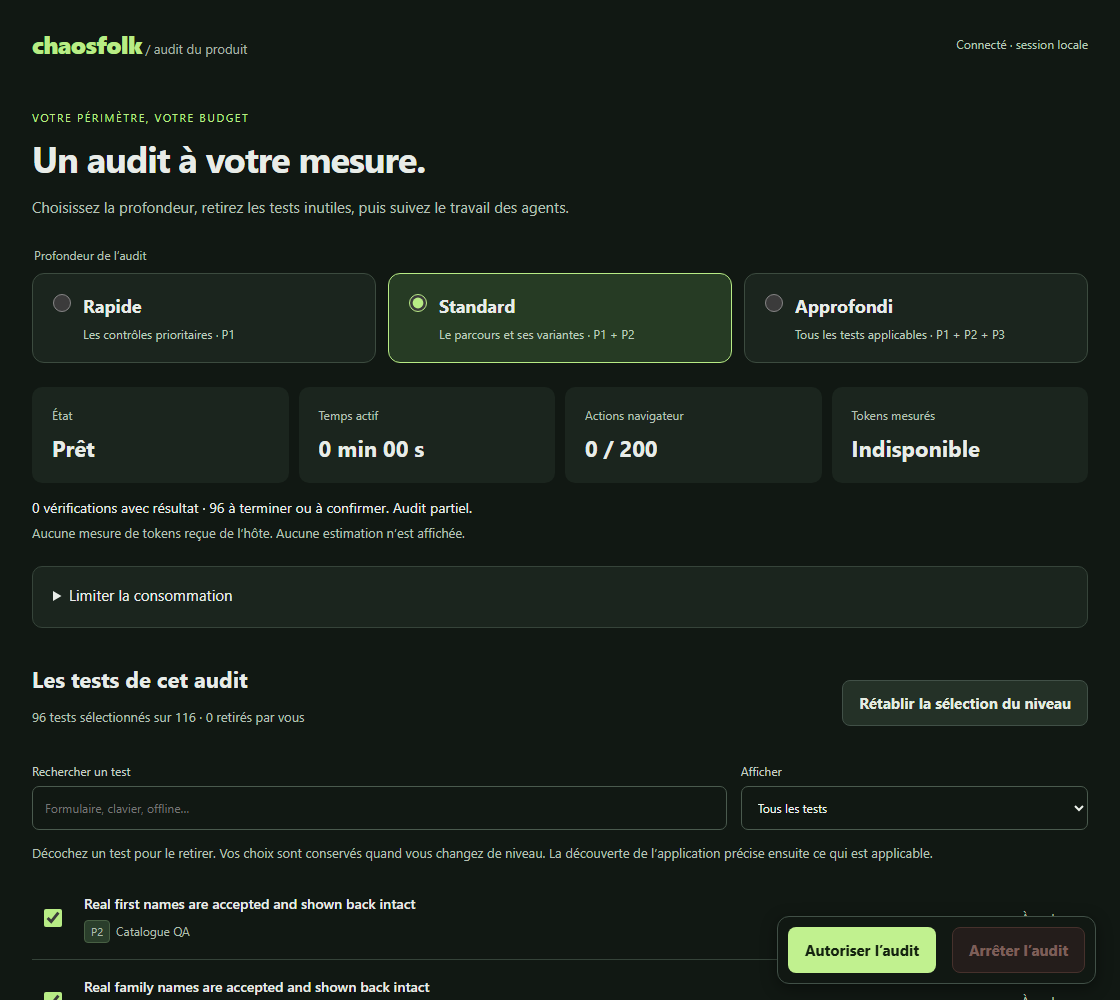
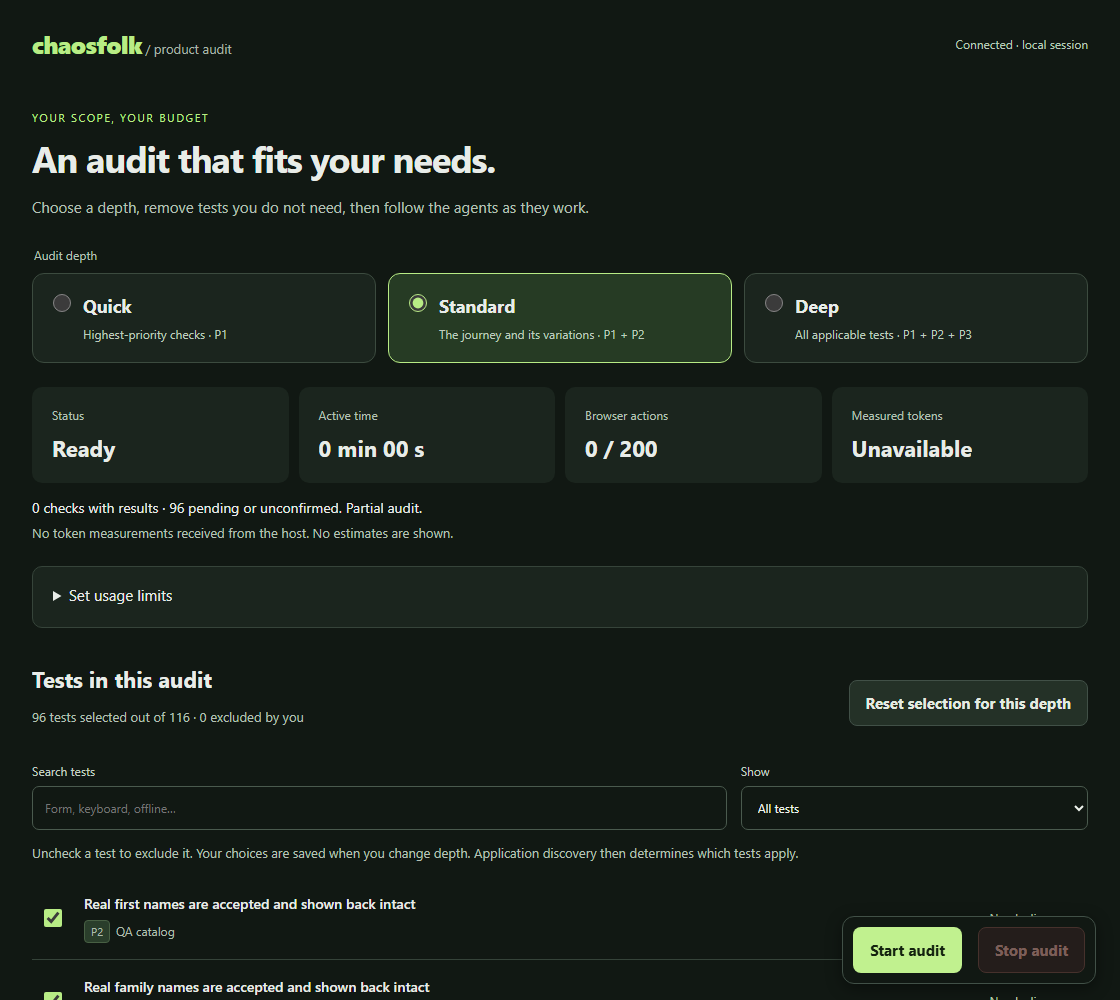
Use English audit demo and require bilingual release notes (#22)

diff --git a/scripts/record_audit_scan.py b/scripts/record_audit_scan.py
@@ -2,6 +2,7 @@
 
 Run from the repository root: python scripts/record_audit_scan.py
 The temporary audit never starts. Every recorded selection is verified in SQLite.
+English labels are applied to the recording's HTML, JS and API responses only.
 """
 import json
 from pathlib import Path
@@ -14,6 +15,26 @@ from playwright.sync_api import expect, sync_playwright
 
 from chaosfolk.audit_dashboard import make_server
 from chaosfolk.audit_session import Session
+
+
+def english_dashboard(route):
+    """Translate recording labels while keeping the real session and controls."""
+    response = route.fetch()
+    source = response.text()
+    translations = json.loads(Path(__file__).with_name("audit_scan_en.json").read_text(encoding="utf-8"))
+    if "/api/" in route.request.url:
+        if response.status == 204:
+            route.fulfill(response=response)
+            return
+        value = json.loads(source)
+        for entry in value.get("entries", []):
+            if "category" in entry:
+                entry["category"] = translations.get(entry["category"], entry["category"])
+        route.fulfill(response=response, json=value)
+        return
+    for french, english in sorted(translations.items(), key=lambda item: len(item[0]), reverse=True):
+        source = source.replace(french, english)
+    route.fulfill(response=response, body=source)
 
 
 def main():
@@ -37,18 +58,25 @@ def main():
                 page = browser.new_page(viewport={"width":1120,"height":1000}, device_scale_factor=1)
                 errors = []
                 page.on("pageerror", lambda error: errors.append(str(error)))
+                page.route("**/", english_dashboard)
+                page.route("**/audit-live.js", english_dashboard)
+                page.route("**/api/**", english_dashboard)
                 page.goto(f"http://127.0.0.1:{server.server_port}/#{server.audit_token}")
-                expect(page.locator("#connection")).to_contain_text("Connecté")
+                expect(page.locator("#connection")).to_contain_text("Connected")
 
                 def capture():
                     expect(page.locator("body")).not_to_have_class("busy")
+                    expect(page.locator("html")).to_have_attribute("lang", "en")
+                    assert not any(label in page.locator("body").inner_text() for label in
+                                   ("sélectionnés", "Catalogue QA", "Indisponible", "Enregistrer", "Approfondi",
+                                    "Autoriser l’audit"))
                     path = folder / f"frame-{len(frames):03d}.png"
                     page.screenshot(path=str(path), animations="disabled")
                     frames.append(path)
 
                 def depth(value, count):
                     page.locator(f"input[value={value}]").check()
-                    expect(page.locator("#selection-count")).to_contain_text(f"{count} tests sélectionnés")
+                    expect(page.locator("#selection-count")).to_contain_text(f"{count} tests selected")
                     assert session.snapshot()["config"]["depth"] == value
                     capture()
 
@@ -59,7 +87,7 @@ def main():
                 page.locator("#tests").scroll_into_view_if_needed()
                 capture()
                 page.locator('#tests input[data-check="email-formats"]').uncheck()
-                expect(page.locator("#selection-count")).to_contain_text("115 tests sélectionnés")
+                expect(page.locator("#selection-count")).to_contain_text("115 tests selected")
                 assert session.snapshot()["config"]["excluded"] == ["email-formats"]
                 capture()
                 page.locator("#search").fill("")
@@ -72,7 +100,7 @@ def main():
                 page.locator('#limits input[name="minutes"]').fill("15")
                 page.locator('#limits input[name="actions"]').fill("250")
                 capture()
-                page.get_by_role("button", name="Enregistrer les limites").click()
+                page.get_by_role("button", name="Save limits").click()
                 expect(page.locator("#actions")).to_have_text("0 / 250")
                 capture()
                 state = session.snapshot()

diff --git a/docs/release-notes/0.8.0.en.md b/docs/release-notes/0.8.0.en.md
@@ -1,0 +1,67 @@
+# Chaosfolk 0.8.0 alpha
+
+You can now choose the depth of a product audit, remove tests and follow their
+progress in a local dashboard. This release also fixes scan stopping and the
+protection of reports prepared for sharing.
+
+## Choose tests and set limits
+
+Quick selects the highest-priority checks, Standard adds more cases and Deep
+selects all 116 tests in the catalog. Each depth covers the whole product.
+Chaosfolk adapts the tests to the features discovered in your app; a check that
+requires a missing account or tool stays marked as blocked.
+
+Uncheck any tests you want to exclude. Your choices remain saved when you change
+depth. During the scan, follow results and elapsed time, with limits on duration,
+actions and open browsers. The browser limit defaults to six.
+
+![Scan settings in the Chaosfolk dashboard.](../../assets/audit-scan.gif)
+
+AI usage appears when your coding assistant supplies measurements. Otherwise,
+it remains unavailable. Refreshing the dashboard makes no AI calls.
+
+## Keep control of the scan
+
+The Stop button stays accessible during a save and at the bottom of the test
+list. A delayed start request can no longer restart a scan you have just stopped.
+On resume, interrupted tools return to the queue with their observations saved.
+
+Your limits stay in the form if a save fails, even after a reload. Changes to
+different fields in two tabs no longer overwrite each other. Chaosfolk closes
+finished independent users' browsers before opening the next batch, and closes
+external programs when tests finish.
+
+A request already sent to the AI may keep consuming usage after stopping.
+Cancellation depends on the assistant running the agents.
+
+## Understand and share results
+
+The report distinguishes finished, excluded, blocked and pending tests. An
+incomplete audit has a provisional score; no numeric score appears before the
+first result. Agents retain all pages they discover in parallel.
+
+Copies prepared for sharing remove raw observations and replay diagnostics that
+may contain entered values. Details stay in the private session with restricted
+access. Scenario export is refused when it contains a sensitive check or a
+recognized authentication link. Review older scenarios before sharing them.
+
+Large reports load details on demand. Several operations use disk storage to
+reduce the memory used by long sessions.
+
+## Check whether a problem reproduces
+
+Replay a journey on test data reset to a verified state before each trial, and
+compare it with a reference journey. The report shows failures among valid
+trials: one failure out of five stays distinct from five failures out of five.
+An execution error counts as an invalid trial.
+
+Page probes and accessibility checks now reject redirects, including redirects
+within the same site. Supply the final authorized URL; otherwise, the result
+remains inconclusive.
+
+Chaosfolk remains alpha software. Technical changes are detailed in the
+[version changelog](https://github.com/loukan42/chaosfolk/blob/v0.8.0/CHANGELOG.md#080---2026-10-29).
+The [audit guide](https://github.com/loukan42/chaosfolk/blob/v0.8.0/docs/audit-runs.md)
+describes configuration and commands.
+
+[Version française](0.8.0.fr.md)

diff --git a/CHANGELOG.md b/CHANGELOG.md
@@ -10,14 +10,20 @@ Each entry explains what the change helps you do and gives an example.
 
 ### Fixed
 
+- Use English labels in the README's product-audit GIF and still image. The
+  recording script applies the translations on each run and verifies the saved
+  test selection and limits. Release notes:
+  [English](docs/release-notes/english-audit-demo.en.md) and
+  [French](docs/release-notes/english-audit-demo.fr.md).
+
 - Wait up to five seconds for SQLite writer contention in the shared chaos
   ledger instead of failing after 250 ms. Concurrent admissions still enforce
   the same active-injection limit and cooldown; a lock timeout leaves no lease.
 
 ## [0.8.0] - 2026-10-29
 
-Read the [French release note on audit controls and report privacy](docs/release-notes/audit-reliability.fr.md)
-for the changes visible to users.
+Read the release notes in [English](docs/release-notes/0.8.0.en.md) or
+[French](docs/release-notes/0.8.0.fr.md) for the changes visible to users.
 
 ### Added
 

diff --git a/docs/release-notes/english-audit-demo.fr.md b/docs/release-notes/english-audit-demo.fr.md
@@ -1,0 +1,16 @@
+# Démonstration de l’audit produit en anglais
+
+Le GIF de l’audit produit et son image fixe dans le README affichent désormais
+les libellés en anglais : profondeur, sélection des tests, état et limites de
+consommation.
+
+Le script applique ces traductions à chaque capture. Il utilise une vraie session
+locale et vérifie les sélections et les limites enregistrées dans SQLite. L’audit
+ne démarre pas pendant la capture ; aucun résultat de test ni estimation de
+consommation d’IA n’est affiché. Ces traductions concernent la démonstration ; le
+tableau de bord utilisé en direct conserve sa langue actuelle.
+
+Chaque release aura des notes en français et en anglais, avec des liens vers les
+deux versions dans le README et le changelog.
+
+[English version](english-audit-demo.en.md)

diff --git a/docs/release-notes/english-audit-demo.en.md b/docs/release-notes/english-audit-demo.en.md
@@ -1,0 +1,15 @@
+# Product-audit recording in English
+
+The README's product-audit GIF and still image now use English labels for scan
+depth, test selection, status and usage limits.
+
+The recording script applies these translations on each run. It uses a real
+local session and verifies the saved selections and limits in SQLite. The audit
+does not start during recording; no test results or AI usage estimates appear.
+These translations apply to the recording, while the live dashboard keeps its
+existing language.
+
+Release notes will be provided in English and French for every release, with
+both versions linked from the README and changelog.
+
+[Version française](english-audit-demo.fr.md)

diff --git a/CONTRIBUTING.md b/CONTRIBUTING.md
@@ -61,6 +61,12 @@ the matching `Added`, `Changed`, `Fixed` or `Removed` group.
 
 ## Releasing
 
+For every release, write matching English and French notes in
+`docs/release-notes/X.Y.Z.en.md` and `docs/release-notes/X.Y.Z.fr.md`.
+Both versions must cover the same changes and limitations. Link both from the
+README and changelog, and include both languages in the GitHub release notes.
+User-facing notes for unreleased changes must also have an English/French pair.
+
 1. Move the `Unreleased` entries to a new dated version section in
    `CHANGELOG.md` and update the comparison links at the bottom.
 2. Set the same version in `pyproject.toml` and `src/chaosfolk/__init__.py`.

diff --git a/README.md b/README.md
@@ -14,7 +14,9 @@
 
 Version [0.8.0 alpha](https://github.com/loukan42/chaosfolk/releases/tag/v0.8.0)
 adds configurable product scans, live limits and fixes to audit controls and
-shared reports. Read the [release notes in French](docs/release-notes/0.8.0.fr.md).
+shared reports. Read the release notes in
+[English](docs/release-notes/0.8.0.en.md) or
+[French](docs/release-notes/0.8.0.fr.md).
 
 ## Choose a scan
 

diff --git a/docs/release-notes/0.8.0.fr.md b/docs/release-notes/0.8.0.fr.md
@@ -1,5 +1,7 @@
 # Chaosfolk 0.8.0 alpha
 
+[English version](0.8.0.en.md)
+
 Tu peux maintenant choisir la profondeur d'un audit de ton produit, retirer des
 tests et suivre leur avancement dans un tableau de bord local. Cette version
 corrige aussi l'arrêt des scans et la protection des rapports à partager.
